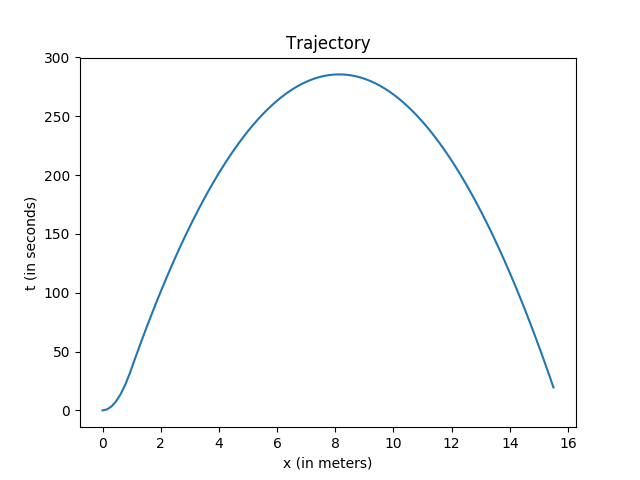
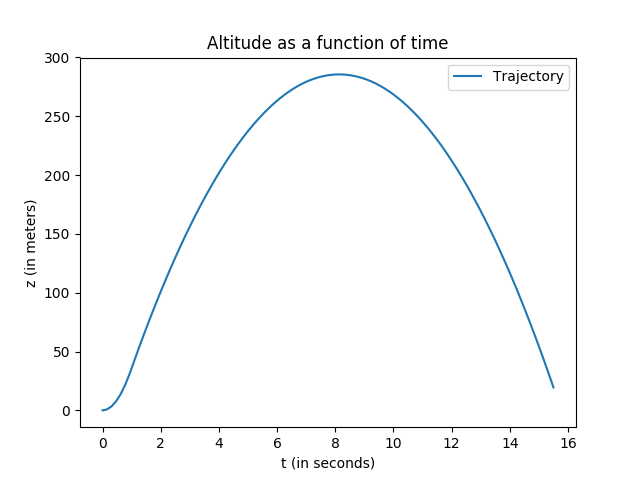
new pictures

diff --git a/trajectoire/modelisation.py b/trajectoire/modelisation.py
@@ -114,23 +114,28 @@ def RtoR0(Vect):
 
 
 if __name__ == "__main__":
-    # t = linspace(0, 15.5, 100)
-    # res = odeint(F, array([0, 0, 0, 0, 0, 0, 0, 1.396, 0, 0, 0, 0]), t)
-    # plt.plot(t, -res[:, 2])
-    # plt.xlabel("x (in meters)")
-    # plt.ylabel("t (in seconds)")
-    # plt.title("Trajectory")
+    t = linspace(0, 15.5, 100)
+    res = odeint(F, array([0, 0, 0, 0, 0, 0, 0, 1.396, 0, 0, 0, 0]), t)
+    # plt.plot(t, -res[:, 2], label="Trajectory")
+    # plt.title("Altitude as a function of time")
+    # plt.xlabel("t (in seconds)")
+    # plt.ylabel("z (in meters)")
+    # plt.legend()
     # plt.savefig("traj_tz.png")
     mpl.rcParams['legend.fontsize'] = 10
 
     fig = plt.figure()
     ax = fig.gca(projection='3d')
-    theta = np.linspace(-4 * np.pi, 4 * np.pi, 100)
-    z = np.linspace(-2, 2, 100)
+    theta = linspace(-4 * pi, 4 * pi, 100)
+    z = linspace(-2, 2, 100)
     r = z**2 + 1
-    x = r * np.sin(theta)
-    y = r * np.cos(theta)
-    ax.plot(x, y, z, label='parametric curve')
+    x = r * sin(theta)
+    y = r * cos(theta)
+    ax.plot(res[:, 0], res[:, 1], -res[:, 2], label='Trajectory')
+    ax.set_xlabel("x (in meters)")
+    ax.set_ylabel("y (in meters)")
+    ax.set_zlabel(r"z (in meters)")
     ax.legend()
+    plt.title("Rocket Trajectory")
 
-    plt.show()
+    plt.savefig("traj_3d.png")
